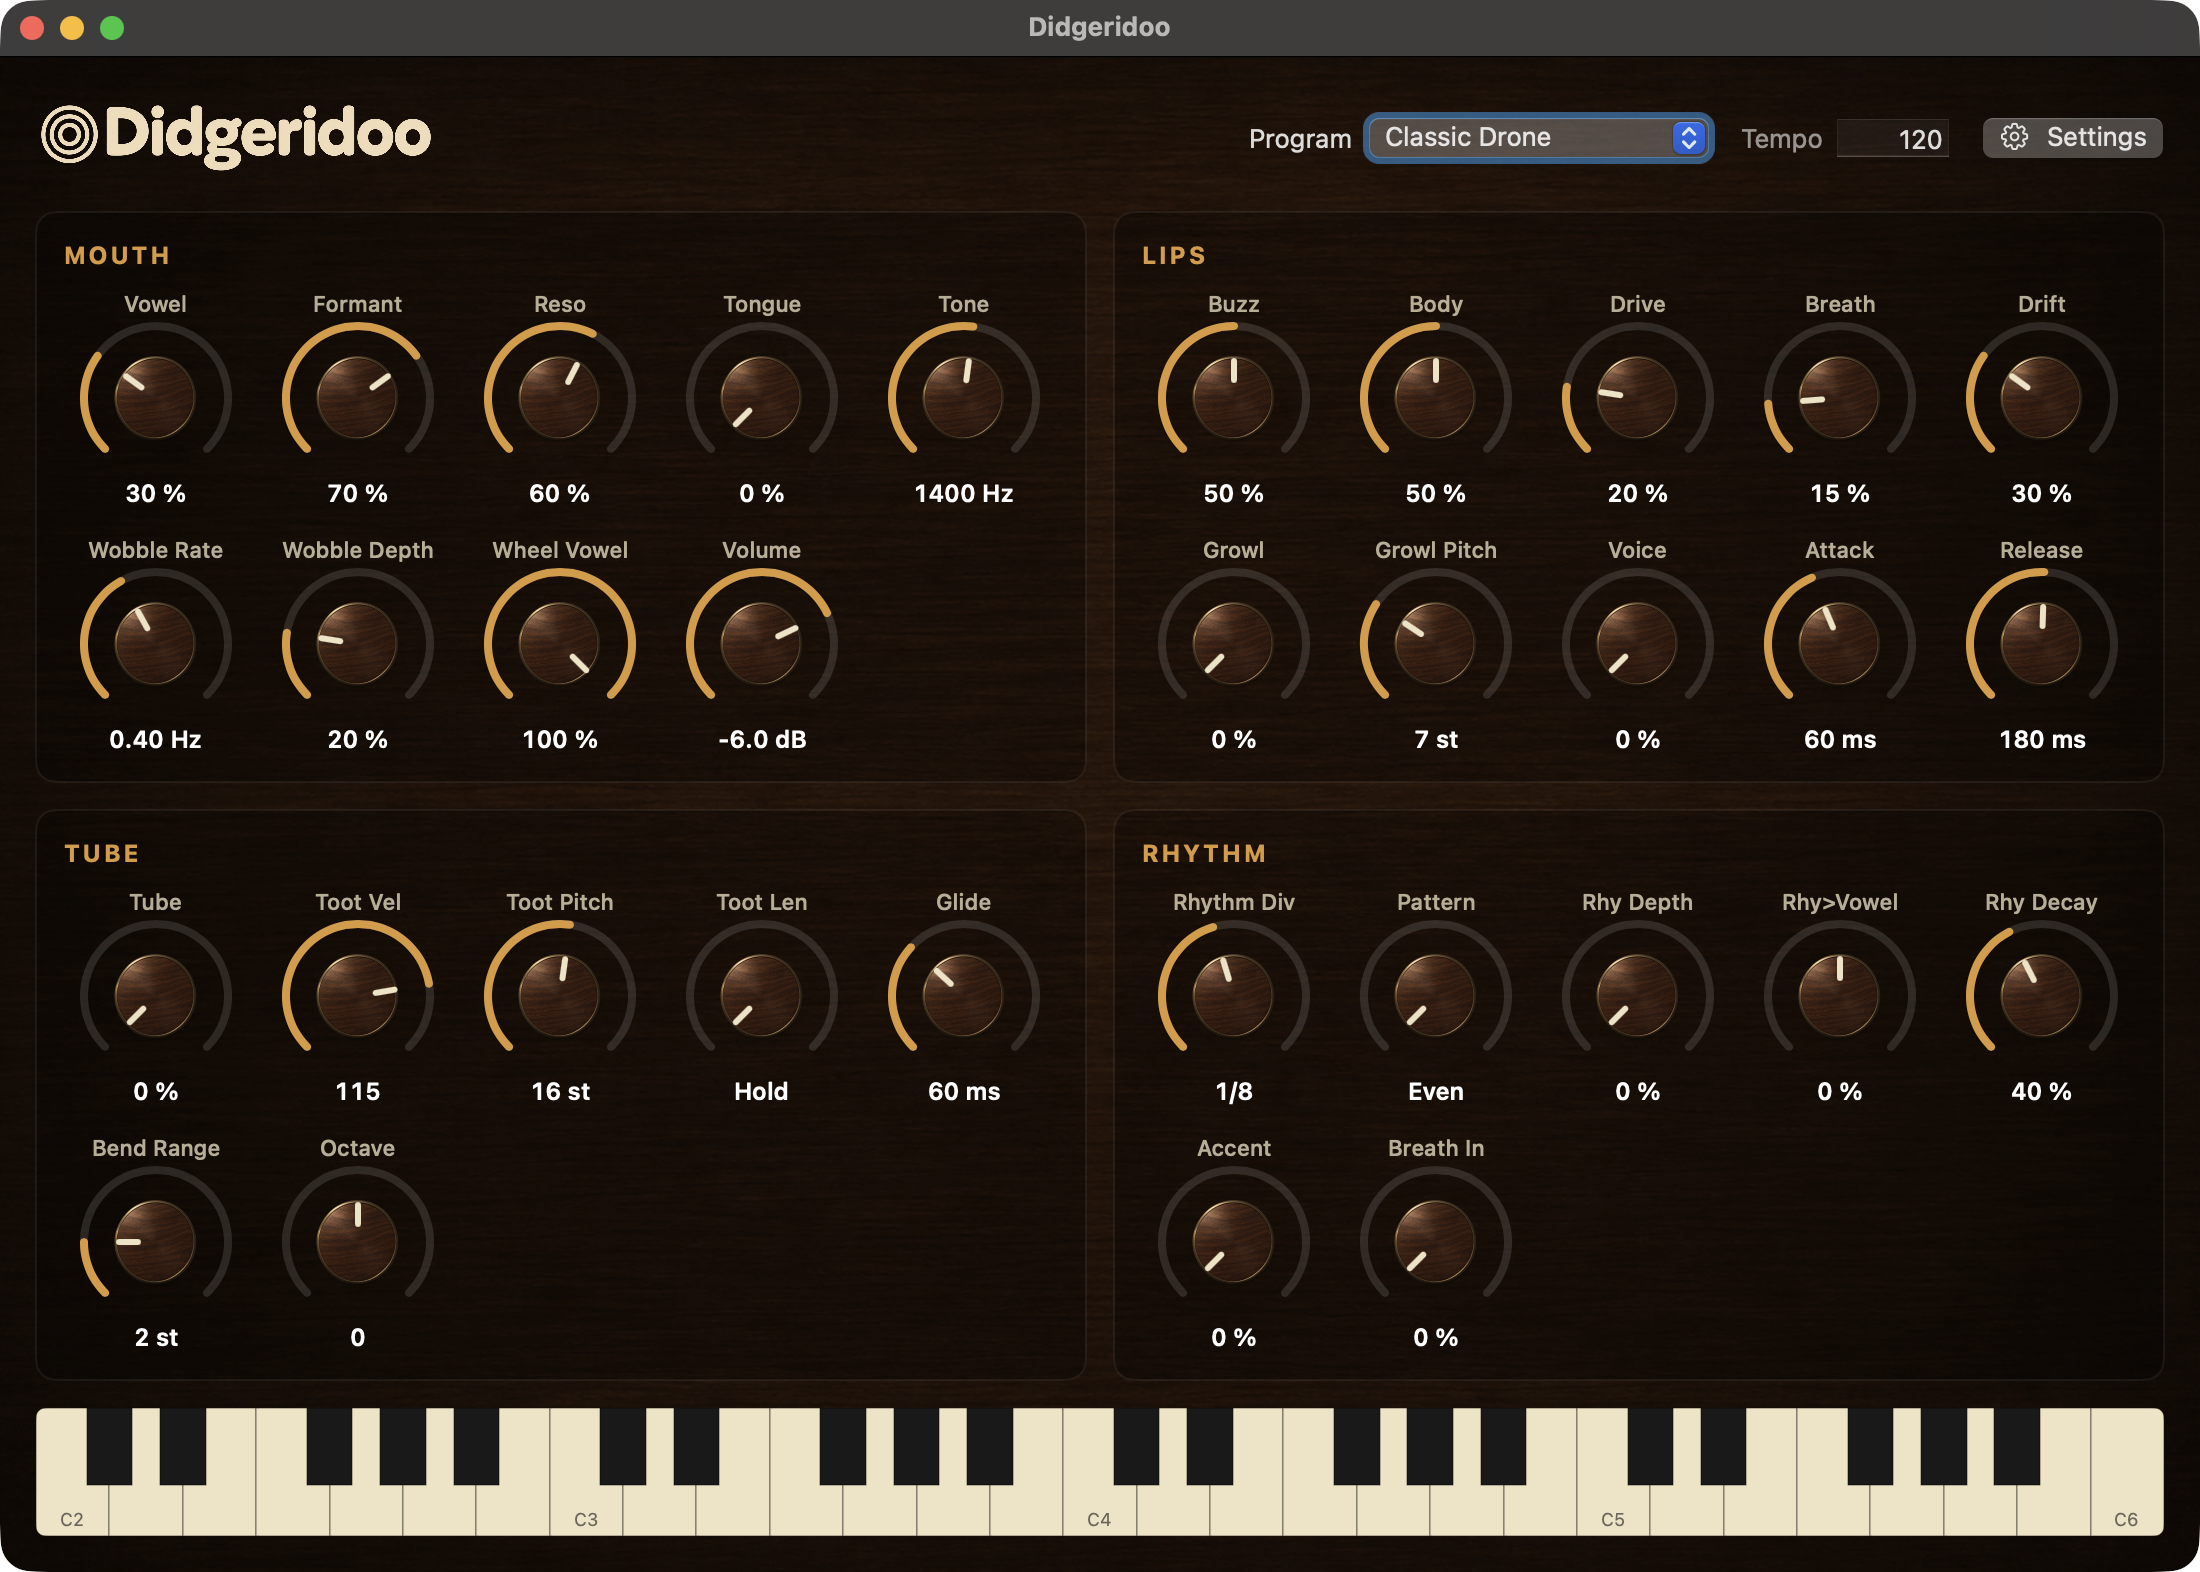
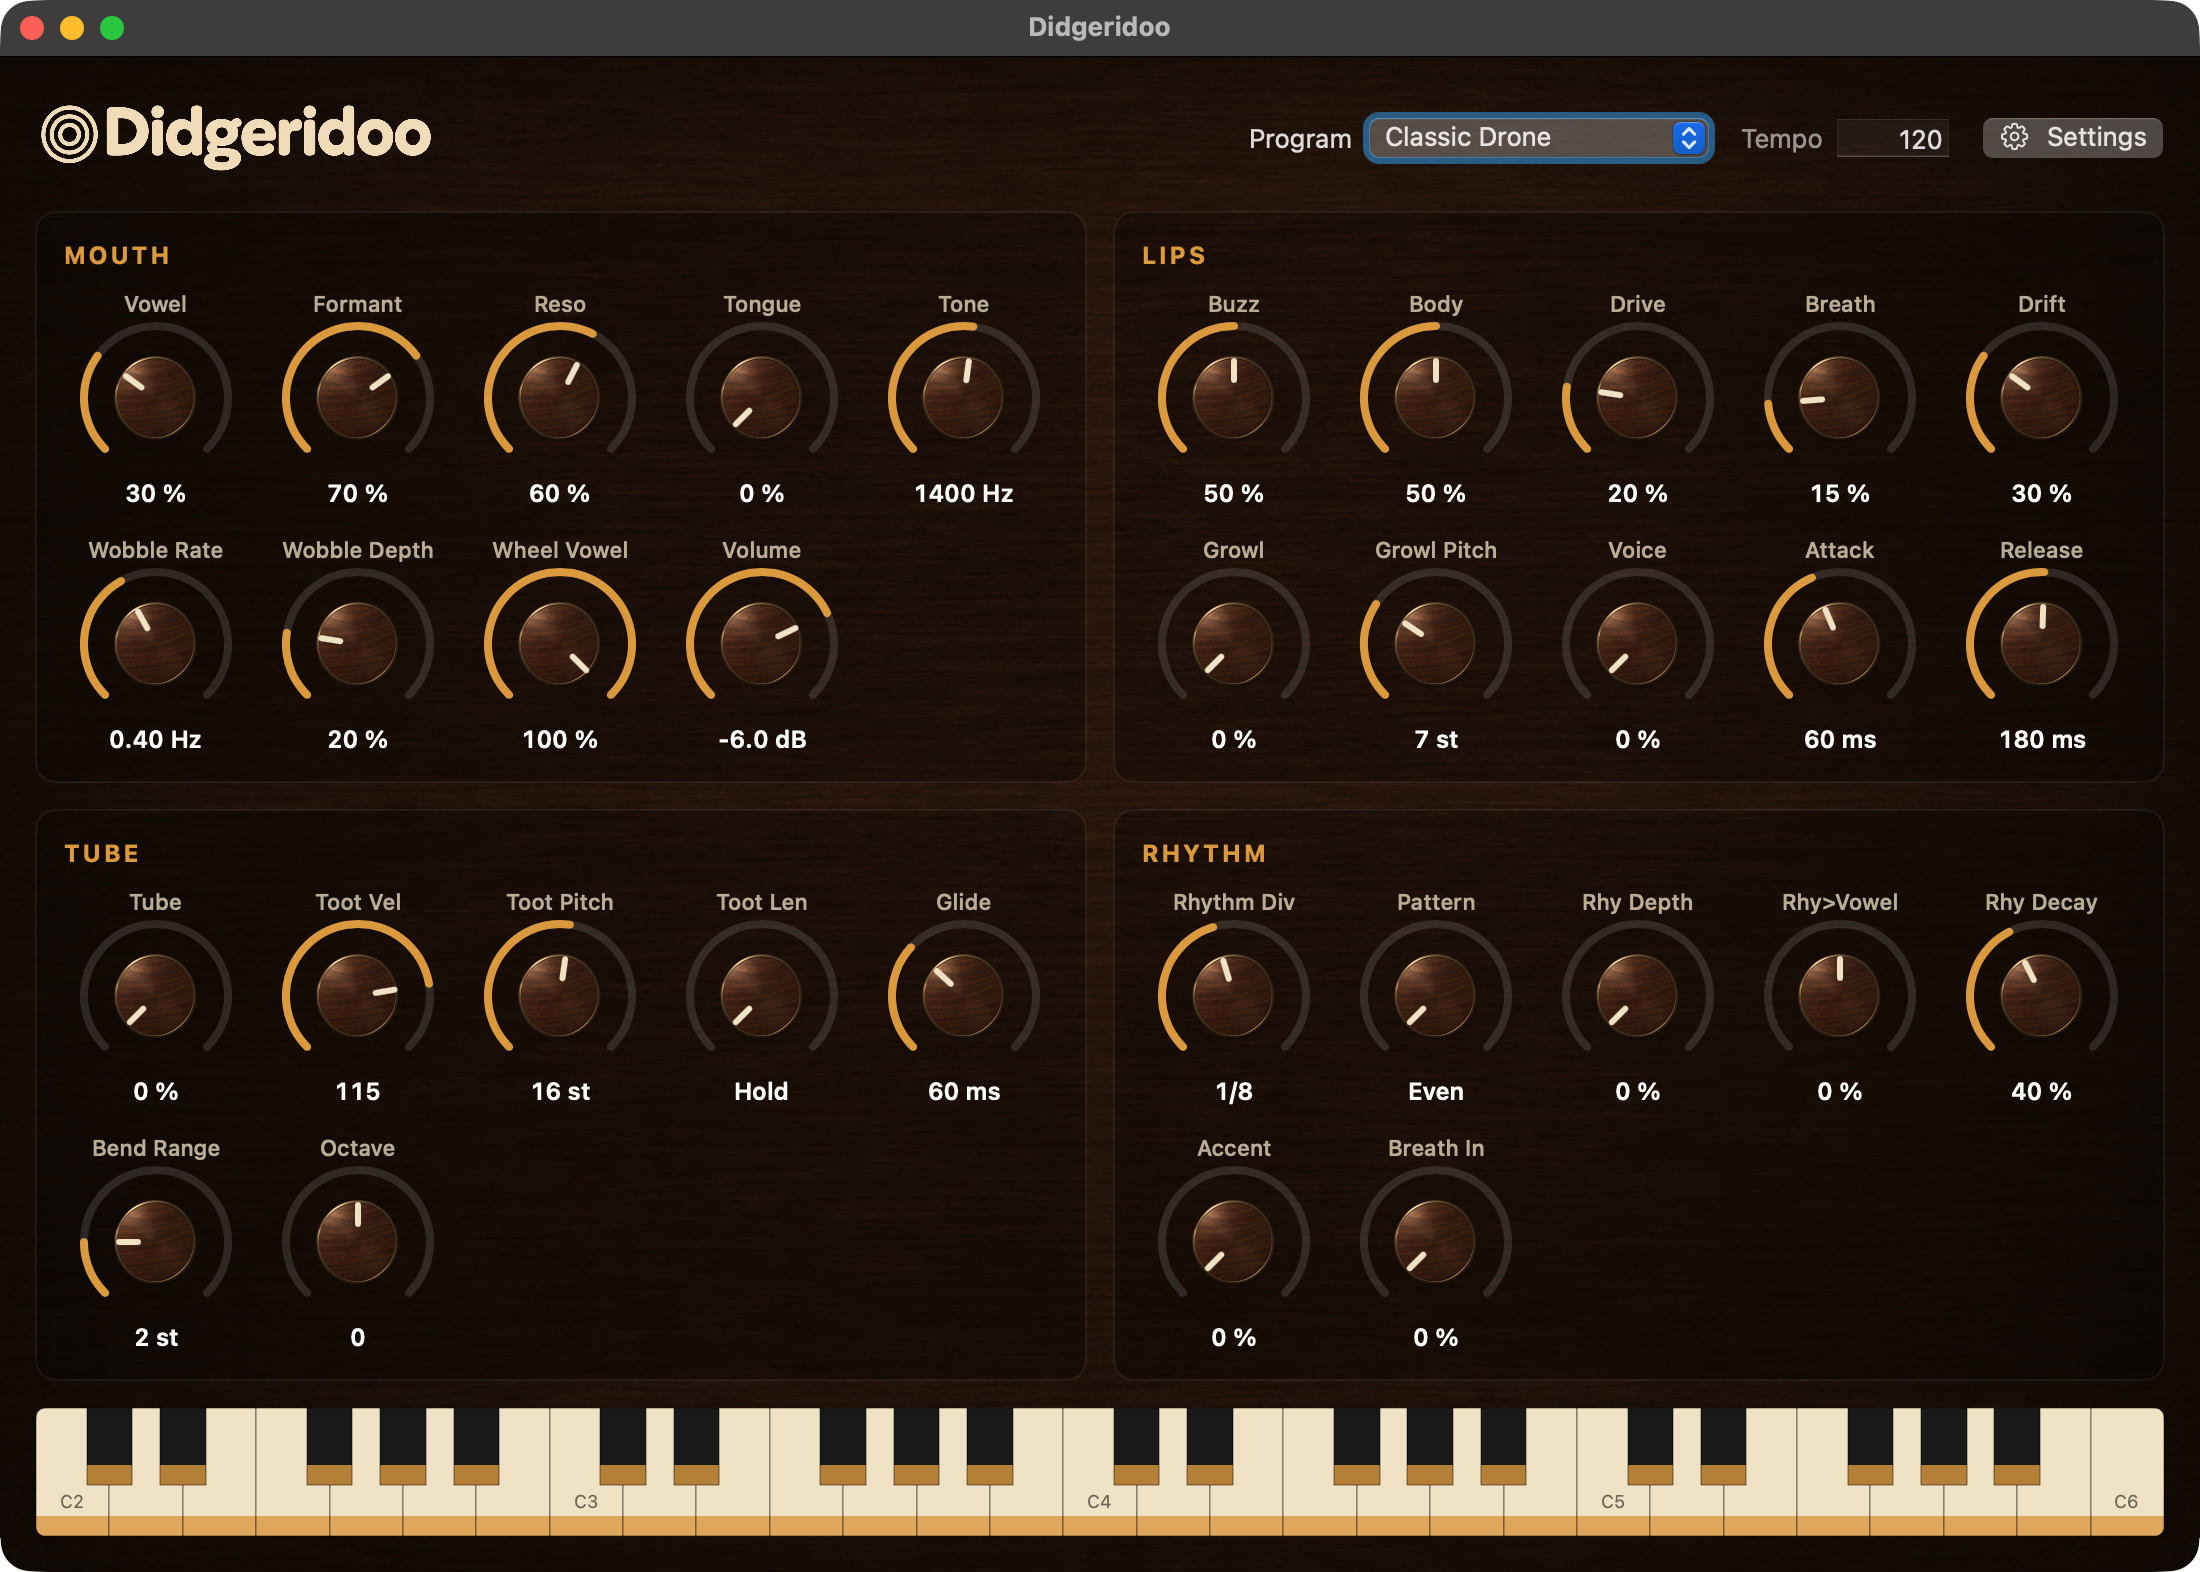
docs: the overblow band — manual, picture, changelog, plan, verification, roadmap, state

Changed region(s): [[0.0, 0.9351, 0.9891, 0.9975], [0.7418, 0.0623, 0.7727, 0.0935], [0.0309, 0.0, 0.0618, 0.0312]]

diff --git a/docs/cs/manual.html b/docs/cs/manual.html
@@ -88,7 +88,7 @@
           <dt><span class="n">6</span>Rhythm</dt>
           <dd>Pulz synchronizovaný s tempem, jeho akcenty a nádechy. Viz <a href="#rhythm">Rhythm</a>.</dd>
           <dt><span class="n">7</span>Klaviatura</dt>
-          <dd>Kliknutím na klávesu ji zahrajete. Kliknutí u horního okraje klávesy hraje tiše; kliknutí u spodního okraje je nejsilnější úhoz a notu přefoukne.</dd>
+          <dd>Kliknutím na klávesu ji zahrajete. U horního okraje klávesy je úhoz tichý, níž je silnější. Okrový pruh na spodním konci každé klávesy je nejsilnější úhoz, který notu přefoukne; klik kdekoli nad pruhem ji nepřefoukne nikdy. Když je <span class="ui">Toot Vel</span> na „Off“, klávesy pruh nemají.</dd>
         </dl>
         <h3>Otáčení knobem</h3>
         <p>Táhněte knob nahoru nebo dolů. S klávesou <kbd>Shift</kbd> se hodnota mění jemně. Dvojklik vrátí knob na hodnotu aktuálního programu. Aplikace si knoby, program i tempo pamatuje mezi spuštěními.</p>
@@ -99,7 +99,7 @@
         <p>Didgeridoo hraje vždy jen jednu notu. Držená klávesa hraje dron; druhá klávesa na něj plynule přeladí (<span class="ui">Glide</span>) a po jejím puštění se ladění vrátí na klávesu, kterou stále držíte. S knobem <span class="ui">Octave</span> na nule leží rozsah skutečného nástroje kolem středu klaviatury: C3–G3 (MIDI noty 60–67).</p>
         <dl class="controls">
           <dt>Silný úhoz</dt>
-          <dd>Velocity rovná hodnotě <span class="ui">Toot Vel</span> nebo vyšší notu přefoukne: skočí o <span class="ui">Toot Pitch</span> půltónů výš a zní jasně, trubkově, a to dokud držíte klávesu, nebo s knobem <span class="ui">Toot Len</span> jen jako krátké štěknutí.</dd>
+          <dd>Velocity rovná hodnotě <span class="ui">Toot Vel</span> nebo vyšší notu přefoukne: skočí o <span class="ui">Toot Pitch</span> půltónů výš a zní jasně, trubkově, a to dokud držíte klávesu, nebo s knobem <span class="ui">Toot Len</span> jen jako krátké štěknutí. Na klaviatuře v okně klikněte do okrového pruhu na spodním konci klávesy.</dd>
           <dt>Mod wheel</dt>
           <dd>Otevírá ústa: posouvá samohlásku směrem k „i“ až o hodnotu <span class="ui">Wheel Vowel</span>.</dd>
           <dt>Aftertouch</dt>

diff --git a/docs/manual.html b/docs/manual.html
@@ -88,7 +88,7 @@
           <dt><span class="n">6</span>Rhythm</dt>
           <dd>The tempo-synced pulse with its accents and in-breaths. See <a href="#rhythm">Rhythm</a>.</dd>
           <dt><span class="n">7</span>Keyboard</dt>
-          <dd>Click a key to play it. Clicking near the top of a key plays softly; clicking near its bottom edge is the hardest hit and overblows the note.</dd>
+          <dd>Click a key to play it. Near the top of a key the hit is soft, further down it is firmer. The ochre band along the lower end of every key is the hardest hit, which overblows the note; a click anywhere above the band never does. With <span class="ui">Toot Vel</span> at “Off” the keys have no band.</dd>
         </dl>
         <h3>Turning a knob</h3>
         <p>Drag a knob up or down. Hold <kbd>Shift</kbd> while dragging for fine steps. Double-click a knob to return it to the value of the current program. The app remembers the knobs, the program and the tempo between launches.</p>
@@ -99,7 +99,7 @@
         <p>Didgeridoo plays one note at a time. Hold a key for the drone; a second key slides the pitch there (<span class="ui">Glide</span>), and releasing it falls back to the key still held. With <span class="ui">Octave</span> at 0 the range of a real instrument sits around middle C: C3–G3 (MIDI notes 60–67).</p>
         <dl class="controls">
           <dt>Hard hit</dt>
-          <dd>A velocity at or above <span class="ui">Toot Vel</span> overblows: the note jumps up by <span class="ui">Toot Pitch</span> semitones with a bright, trumpet-like tone, for as long as you hold the key or, with <span class="ui">Toot Len</span>, as a short stab.</dd>
+          <dd>A velocity at or above <span class="ui">Toot Vel</span> overblows: the note jumps up by <span class="ui">Toot Pitch</span> semitones with a bright, trumpet-like tone, for as long as you hold the key or, with <span class="ui">Toot Len</span>, as a short stab. On the keyboard in the window, click the ochre band at the lower end of a key.</dd>
           <dt>Mod wheel</dt>
           <dd>Opens the mouth: moves the vowel towards “i” by up to <span class="ui">Wheel Vowel</span>.</dd>
           <dt>Aftertouch</dt>

diff --git a/.planning/phases/13-overblow-band/VERIFICATION.md b/.planning/phases/13-overblow-band/VERIFICATION.md
@@ -1,0 +1,46 @@
+# Phase 13 — Verification (2026-11-14)
+
+Checked with the scratch app of phase 11 (the app's real `Window` scene,
+`ContentView`, `KeyboardView` and `AppModel`, stand-in audio and MIDI): it
+clicks on the real strip and renders the synth itself, then looks at which
+partial is there, the drone's or the one 16 semitones above it. Nothing
+sounds on any device.
+
+## The cause
+
+| Check | Result |
+|---|---|
+| Version 1.0.1: C3 pressed every 3 points down its 64 points | the drone down to 54 points (velocity 113); from 57 points on (velocity 117) the overblown note and no drone at all. The key's name sits 51 to 60 points down |
+| The engine, 2000 random runs with Glide at 60 ms or less: something played, one to six knobs moved, then C3, C2, C3 | in none of the 1522 runs where the second C3 clearly sounds at its key's pitch did the first C3 sound at another |
+| The same with any Glide | 5 of 1536: all with a Glide of 235 to 893 ms and a note let go 20 ms before, the pitch still sliding to C3 |
+| The code, read: what can move a note's pitch | the note, an overblown hit, Glide, pitch bend, Drift, the tongue (35 cents), Octave; nothing else |
+
+## The band
+
+| Check | Result |
+|---|---|
+| `KeyStripTests`, written before `KeyStrip` existed | did not build; now 5 tests pass: the band is velocity 127 at every Toot Vel; above the band every velocity stays under every Toot Vel (64 to 128); soft at the top (40), firmer further down, 105 to 110 just above the band; a key without a band; a press dragged off the key |
+| The real strip at Toot Vel 115, 80 and 64: C3 and C#3 pressed every 2 points down | the drone everywhere above the band, the overblown note in the lowest 10 points, on the white key and on the black one, the same at all three settings |
+| The same at Toot Vel "Off" | the drone everywhere |
+| The whole strip pressed every 3 points (7455 spots) | none stays silent |
+| The window's content drawn offscreen | an ochre band along the lower end of the white keys and of the black keys; the names C2 to C6 above it |
+| `swift test`, and the same in a release build | 56 tests in 12 suites pass in both |
+| `./build.sh debug`, `./build.sh release` | succeed without compiler warnings; `codesign --verify --deep --strict` passes for both |
+| English and Czech manual | the same structure, tag by tag |
+
+## The website's picture
+
+`docs/assets/didgeridoo-window.png` is the picture of the real 1.0.0 window
+with the 132 rows of the keys replaced by the same rows of the stand-in's
+drawing; everything else is unchanged, pixel for pixel. The real app was not
+started: the system's output was the USB interface "M4". The stand-in draws
+the keys as the real app does (in the 1.0.0 pictures 407 of 290 400 pixels of
+those rows differ). The next release should take the picture from the real
+app again if the output allows.
+
+## Not verified
+
+- With a hand on a real mouse in the real app, and by ear.
+- Everything earlier phases left open.
+
+The scratch tools are not part of this repository.

diff --git a/.planning/phases/13-overblow-band/PLAN.md b/.planning/phases/13-overblow-band/PLAN.md
@@ -1,0 +1,53 @@
+# Phase 13 — The overblow band
+
+## Goal
+
+The author reported that after moving knobs a click on C3 sometimes sounds
+far too high ("like C4"), and that C3 is right again after another key was
+played. Find out why and make the keyboard strip behave so that this cannot
+surprise anyone.
+
+## What it was
+
+Not the knobs. The lowest 9 of a key's 64 points were the hardest hit
+(velocity 115 and more), which overblows the note: 16 semitones up, and no
+drone. Nothing on the key showed it, and the key's name lay across the edge
+of that zone (51 to 60 points down). Until 1.0.0 a click on the name did
+nothing; since 1.0.1 it plays, and its lower half overblew.
+
+A random search of the engine (2000 runs: play something, move one to six
+knobs, play C3, C2, C3) found no case in which the first C3 sounded at
+another pitch than the second, apart from a long Glide sliding in from a note
+that was still dying away, which is what Glide is for.
+
+## Acceptance criteria
+
+- [x] The cause is found by reproducing it, on the real strip and in the
+      engine.
+- [x] Every key shows a band at its lower end. A click in the band always
+      overblows (the hardest hit), a click anywhere above it never does,
+      wherever Toot Vel stands.
+- [x] Above the band the height of the click still sets how firm the hit is.
+- [x] The keys' names sit above the band.
+- [x] With Toot Vel at "Off" nothing overblows and the keys show no band.
+- [x] The rule is in the core, tested first; the manual in both languages,
+      the website's picture and the CHANGELOG describe it.
+- [x] `swift test`, `./build.sh debug` and `./build.sh release` succeed.
+
+## Decisions
+
+- **A visible band** (the author's choice among four: the band, Shift-click,
+  no overblowing by mouse, or only moving the names).
+- **The band is the hardest hit, 127; above it the hit runs from 40 to 110
+  and stays under Toot Vel** (`KeyStrip.velocity`). The knob still decides
+  where overblowing starts for a MIDI keyboard; on the strip the band decides,
+  so that what the key shows is what it does.
+- **The band is 10 points high on white and on black keys alike**, an eye's
+  width for the mouse; on a black key it is the lower quarter.
+- **No band when Toot Vel is "Off"**: there is nothing to overblow, and a
+  band that does nothing would be a lie.
+
+## Not in this phase
+
+- A first click into a window that is not active, and clicks shorter than
+  about 20 ms (phase 11's notes): unchanged.

diff --git a/.planning/ROADMAP.md b/.planning/ROADMAP.md
@@ -5,6 +5,7 @@ Phases, newest first. One phase = one folder in `phases/`, one branch, one
 
 | Phase | Goal | Status |
 |---|---|---|
+| 13-overblow-band | The keys of the app's keyboard show a band at their lower end: a click there overblows, a click anywhere else never does; the names sit above it — 2026-11-14 | ✅ |
 | 12-v1.0.1-release | Version 1.0.1: phase 11 released — 2026-11-14 | ✅ |
 | 11-key-name-click | A press on the name of a key of the keyboard strip plays the key; the name used to take it — 2026-11-14 | ✅ |
 | 10-v1.0.0-release | Version 1.0.0: phase 09 released — 2026-11-14 | ✅ |

diff --git a/CHANGELOG.md b/CHANGELOG.md
@@ -1,5 +1,14 @@
 # Changelog
 
+## Unreleased
+
+- The keys of the app's keyboard show an ochre band at their lower end. A
+  click in the band overblows the note; a click anywhere else on a key never
+  does, wherever Toot Vel stands. Before, the lowest part of a key overblew
+  without showing it, and the key's name lay right across its edge, so a
+  click on the name sometimes played the note 16 semitones too high. The
+  names now sit above the band.
+
 ## 1.0.1 — 2026-11-14
 
 - A click on the name of a key (C2 to C6) on the app's keyboard now plays

diff --git a/.planning/STATE.md b/.planning/STATE.md
@@ -1,5 +1,8 @@
 # Didgeridoo — State
 
+- 2026-11-14 — phase 13 done: the overblow band on the keys of the app's
+  keyboard. A click on a key's name had sometimes overblown the note since
+  1.0.1. See `phases/13-overblow-band/VERIFICATION.md`. Not released yet.
 - 2026-11-14 — phase 12: version 1.0.1 released (phase 11). See
   `phases/12-v1.0.1-release/VERIFICATION.md`.
 - 2026-11-14 — phase 11 done: the dead spot on the names of the keys C2 to
